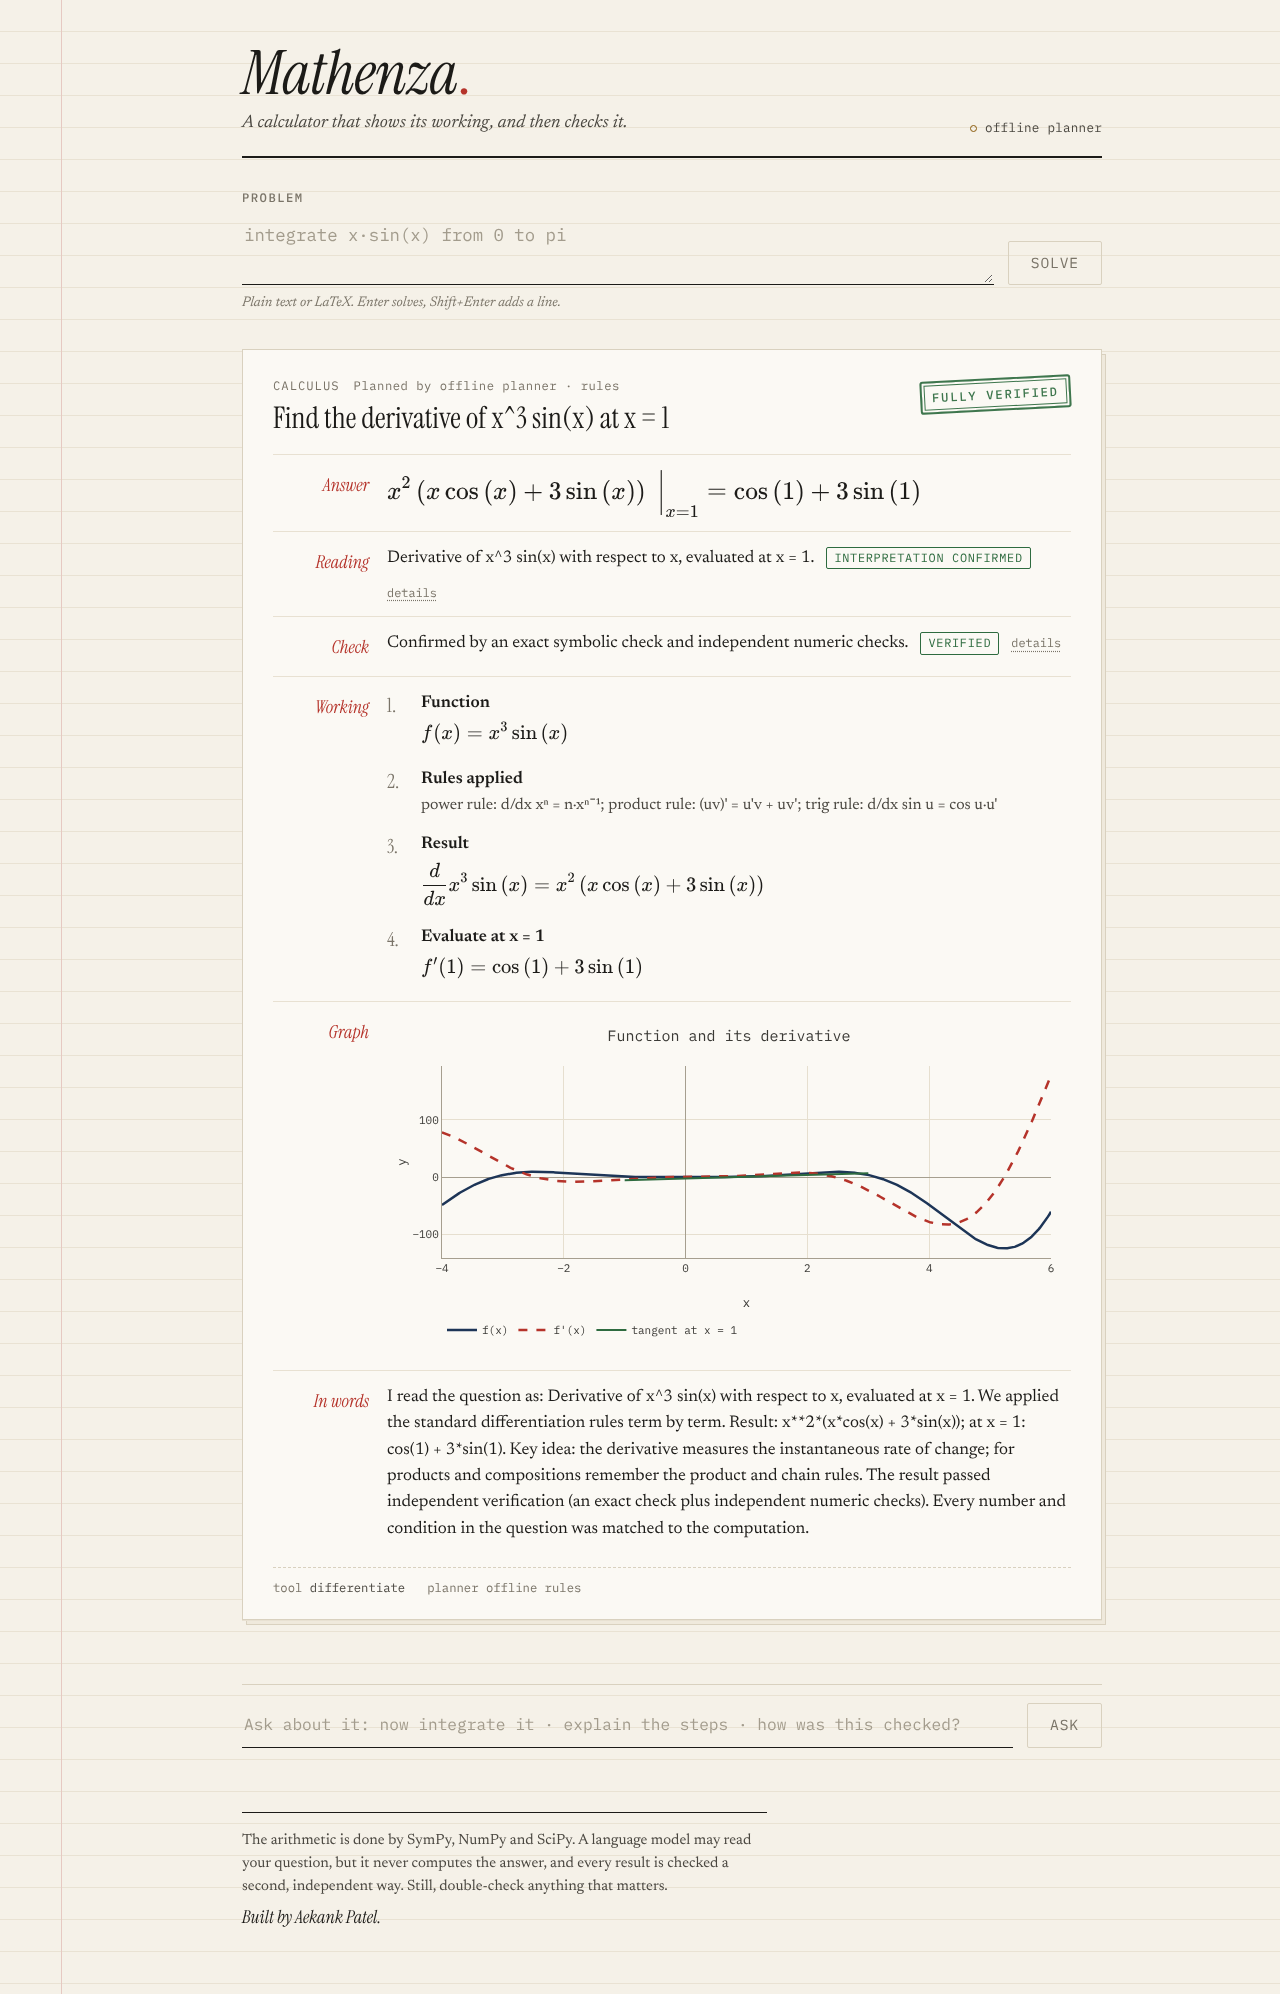
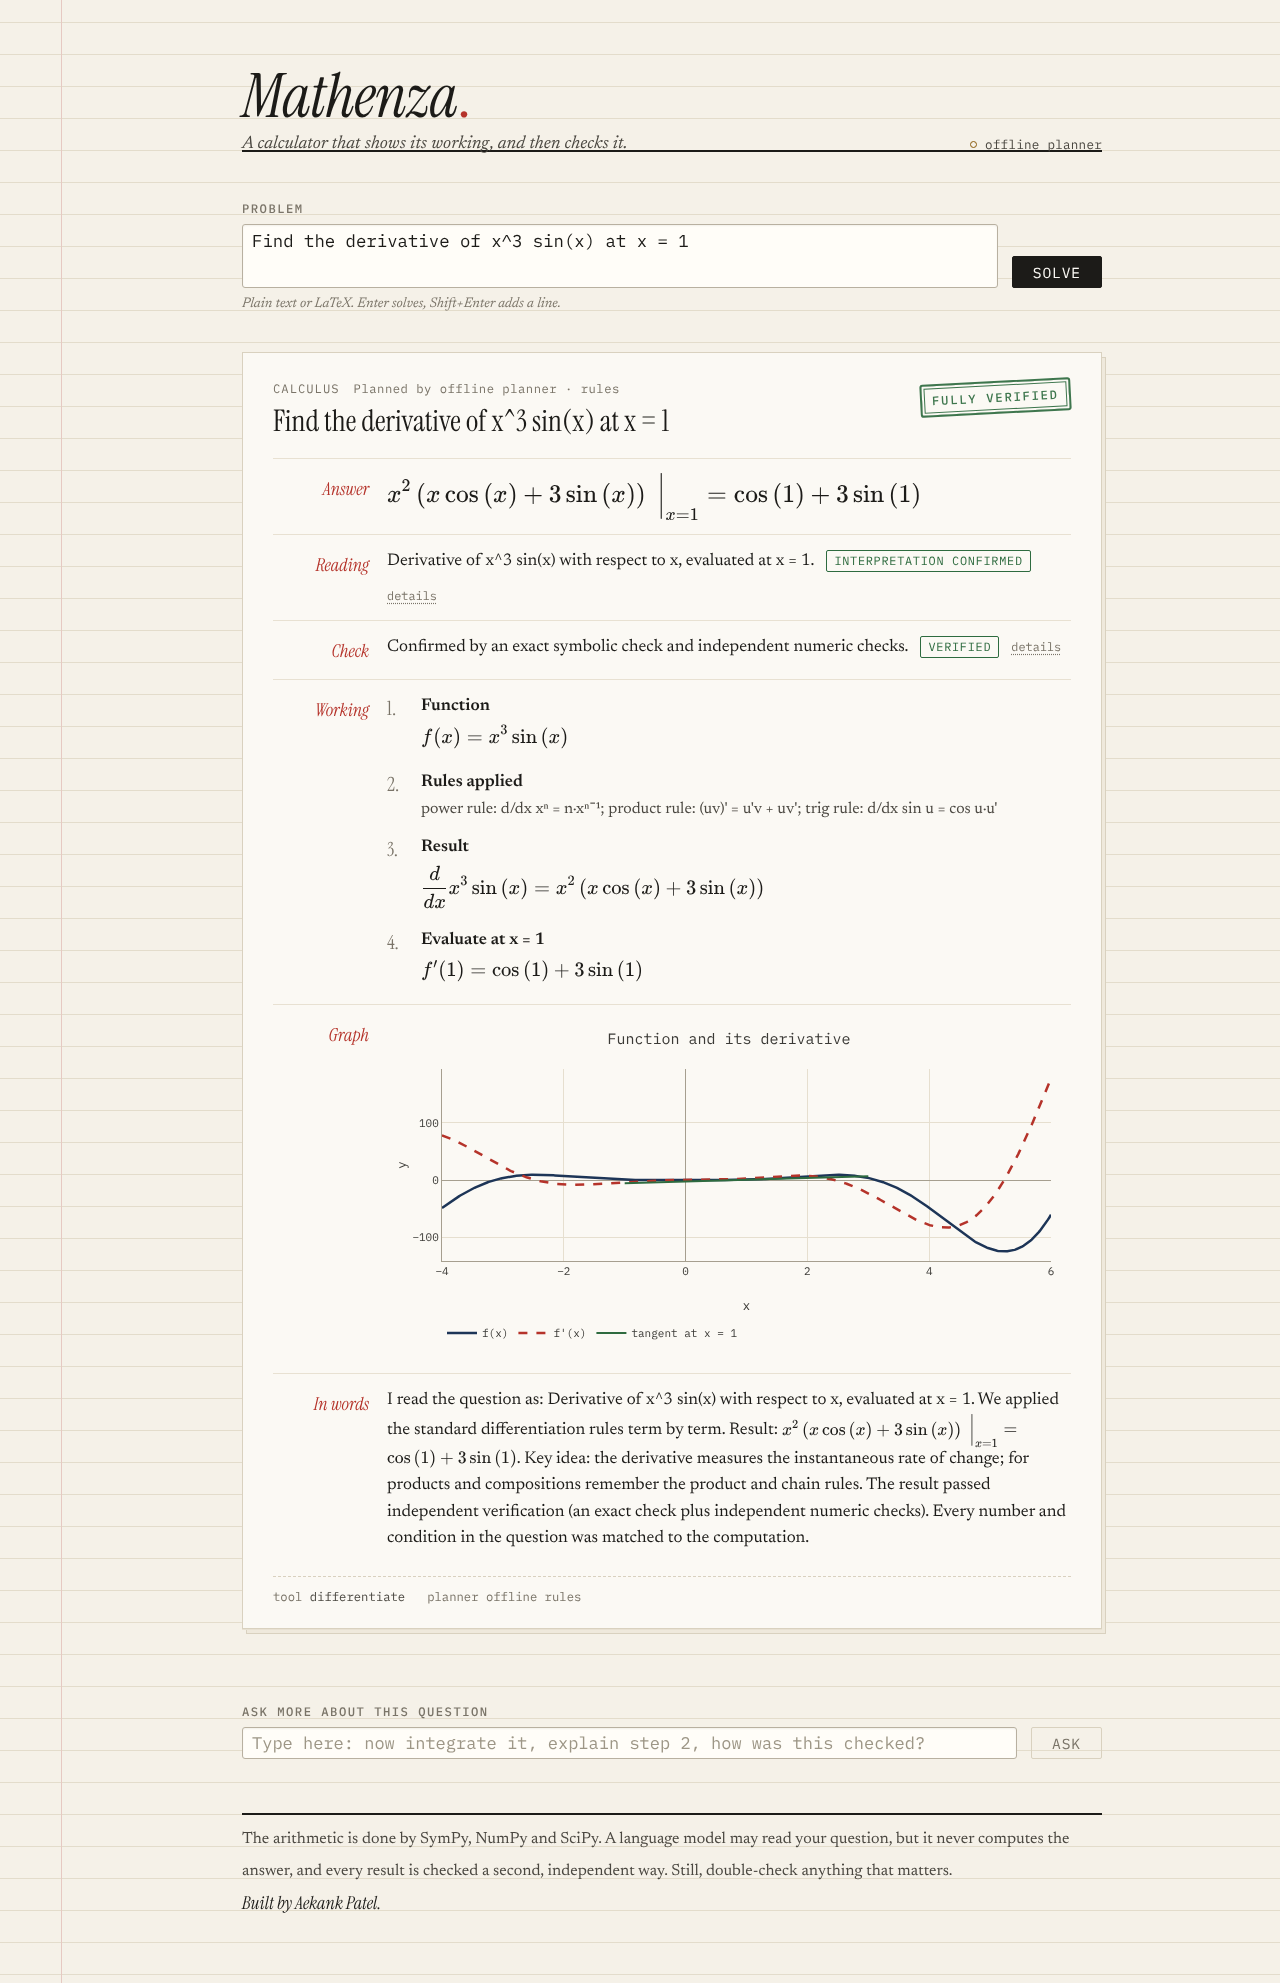
Align the home page to the notebook lines and polish the interface

diff --git a/frontend/src/index.css b/frontend/src/index.css
@@ -232,3 +232,97 @@ button { font: inherit; color: inherit; }
   .ask-hint span:first-child { display: none; }
 }
 @media (prefers-reduced-motion: reduce) { .sheet, .working .dots { animation: none; } }
+
+/* ==== writing on the lines ====================================================================
+   The page is ruled every 32px. Everything on the home page is sized in whole lines, so the text
+   sits on the rules like handwriting in a notebook. Rules are drawn with inset shadows, which take
+   no space and so never push the next line off the grid. */
+:root { --line: 32px; }
+.app { padding-top: calc(var(--line) * 2); padding-bottom: calc(var(--line) * 2); }
+
+.masthead { padding-bottom: 0; border-bottom: 0; margin-bottom: var(--line); align-items: flex-end; row-gap: 0;
+  box-shadow: inset 0 -2px 0 var(--ink); }
+.wordmark { line-height: calc(var(--line) * 2); height: calc(var(--line) * 2); }
+.tagline { margin: 0; line-height: var(--line); }
+.status { height: var(--line); line-height: var(--line); }
+
+.eyebrow { margin: 0; line-height: var(--line); height: var(--line); }
+
+.ask-row { align-items: flex-end; }
+.ask textarea, .ask input { border: 0; padding: 0 6px; line-height: var(--line); resize: none;
+  background: rgba(255, 253, 247, 0.55); box-shadow: inset 0 -2px 0 var(--ink); }
+.ask textarea { height: calc(var(--line) * 2); min-height: calc(var(--line) * 2); }
+.ask input { height: var(--line); }
+.ask textarea:focus, .ask input:focus { box-shadow: inset 0 -2px 0 var(--pencil); background: rgba(255, 253, 247, 0.85); }
+.ask button { height: var(--line); padding: 0 20px; line-height: calc(var(--line) - 3px); }
+.ask-hint { margin: 0; height: var(--line); line-height: var(--line); }
+
+.examples { margin: var(--line) 0 0; }
+.examples dl { gap: 0; }
+.example-group { padding: 0; gap: 0 24px; border-bottom: 0; }
+.example-group dt { line-height: var(--line); }
+.example-group dd { flex-direction: column; flex-wrap: nowrap; gap: 0; }
+.example { display: flex; align-items: center; height: var(--line); padding: 0; font-family: var(--serif);
+  font-size: 1.02rem; line-height: var(--line); color: var(--navy); }
+.example .katex { font-size: 1.02em; }
+.example + .example::before { content: none; }
+
+.legend { margin-top: var(--line); font-size: 0.95rem; }
+.legend ul { margin: 0; gap: 0; }
+.legend li { grid-template-columns: 280px 1fr; min-height: var(--line); line-height: var(--line); gap: 0 14px; }
+.legend .stamp { font-size: 0.66rem; padding: 1px 8px; letter-spacing: 0.12em; transform: rotate(-2deg);
+  justify-self: start; line-height: 1.5; }
+
+.turns { margin-top: var(--line); }
+.followup { margin-top: var(--line); padding-top: 0; border-top: 0; }
+.followup input { font-size: 1rem; }
+
+.colophon { max-width: none; margin-top: calc(var(--line) * 2); padding-top: 0; border-top: 0;
+  box-shadow: inset 0 2px 0 var(--ink); line-height: var(--line); font-size: 0.95rem; }
+.colophon p { margin: 0; }
+.colophon-sign { line-height: var(--line); }
+
+@media (max-width: 760px) {
+  .legend li { grid-template-columns: 1fr; }
+  .example { height: auto; min-height: var(--line); }
+  .ask button { height: var(--line); }
+}
+@media (max-width: 760px) {
+  .ask-row { gap: 0; }
+  .followup .ask-row { gap: 0 10px; }
+}
+@media (max-width: 760px) {
+  .legend li { grid-template-rows: var(--line) auto; align-items: center; gap: 0; }
+  .legend li > .muted { line-height: var(--line); align-self: start; }
+}
+
+/* rules sit just under the text baseline (22px into each 32px line), like handwriting on a ruled page */
+:root {
+  background-image:
+    linear-gradient(to right, transparent 0, transparent 61px, #e6c9c2 61px, #e6c9c2 62px, transparent 62px),
+    repeating-linear-gradient(to bottom, transparent 0, transparent 22px, #e3dccb 22px, #e3dccb 23px, transparent 23px, transparent 32px);
+}
+@media (max-width: 760px) {
+  :root { background-image: repeating-linear-gradient(to bottom, transparent 0, transparent 22px, #e3dccb 22px, #e3dccb 23px, transparent 23px, transparent 32px); }
+}
+/* drawn lines on the rules themselves (9px above the bottom of a line box) */
+.masthead { box-shadow: none; background: linear-gradient(var(--ink), var(--ink)) no-repeat left bottom 8px / 100% 2px; }
+.ask textarea, .ask input { box-shadow: none;
+  background: linear-gradient(var(--ink), var(--ink)) no-repeat left bottom 8px / 100% 2px, rgba(255, 253, 247, 0.5); }
+.ask textarea:focus, .ask input:focus { box-shadow: none;
+  background: linear-gradient(var(--pencil), var(--pencil)) no-repeat left bottom 8px / 100% 2px, rgba(255, 253, 247, 0.85); }
+.colophon { box-shadow: none; position: relative; }
+.colophon::before { content: ''; position: absolute; left: 0; right: 0; top: -10px; height: 2px; background: var(--ink); }
+.example { display: block; white-space: nowrap; overflow: visible; }
+.legend li { align-items: start; }
+.legend li > .stamp { margin-top: 5px; }
+/* inputs: a boxed field (clearly a place to type), still exactly one or two lines tall */
+.ask textarea, .ask input { background: #fffdf8; border: 1px solid #b8b0a0; border-radius: 3px; padding: 0 9px;
+  box-shadow: inset 0 1px 2px rgba(28, 27, 24, 0.06); }
+.ask textarea:hover, .ask input:hover { border-color: var(--ink-3); }
+.ask textarea:focus, .ask input:focus { background: #fffefb; border-color: var(--pencil);
+  box-shadow: 0 0 0 3px rgba(181, 51, 42, 0.12); }
+.ask textarea::placeholder, .ask input::placeholder { color: #9d9686; }
+@media (max-width: 760px) {
+  .ask-row > textarea { flex: none; width: 100%; }
+}

diff --git a/frontend/src/App.tsx b/frontend/src/App.tsx
@@ -1,6 +1,8 @@
 import { useEffect, useRef, useState, type FormEvent, type KeyboardEvent } from 'react'
 import { api, ApiError, MAX_PROBLEM_CHARS } from './api'
 import { StatusLegend } from './components/IntentPanel'
+import { RichText } from './components/Tex'
+import { EXAMPLE_LABELS } from './examples'
 import { HealthPill } from './components/PlannerInfo'
 import { SolutionCard } from './components/SolutionCard'
 import type { Health, SolveResponse } from './types'
@@ -97,7 +99,8 @@ export default function App() {
     if (!p || loading) return
     setTurns([])
     setSessionId(null)
-    if (await run(() => api.solve(p), false)) setProblem('')
+    setProblem(p) // the box keeps showing the question that was asked
+    await run(() => api.solve(p), false)
   }
 
   async function submitFollowUp(e: FormEvent) {
@@ -167,8 +170,14 @@ export default function App() {
                   <dt>{cat}</dt>
                   <dd>
                     {items.map((ex) => (
-                      <button key={ex} type="button" className="example" onClick={() => void submitProblem(undefined, ex)}>
-                        {ex}
+                      <button
+                        key={ex}
+                        type="button"
+                        className="example"
+                        aria-label={ex}
+                        onClick={() => void submitProblem(undefined, ex)}
+                      >
+                        {EXAMPLE_LABELS[ex] ? <RichText text={EXAMPLE_LABELS[ex]} /> : ex}
                       </button>
                     ))}
                   </dd>
@@ -206,12 +215,15 @@ export default function App() {
             <label htmlFor="followup" className="sr-only">
               Follow-up question
             </label>
+            <span className="eyebrow" aria-hidden>
+              Ask more about this question
+            </span>
             <div className="ask-row">
               <input
                 id="followup"
                 value={followUp}
                 onChange={(e) => setFollowUp(e.target.value)}
-                placeholder="Ask about it: now integrate it · explain the steps · how was this checked?"
+                placeholder="Type here: now integrate it, explain step 2, how was this checked?"
                 maxLength={MAX_PROBLEM_CHARS}
               />
               <button type="submit" disabled={loading || !followUp.trim()}>

diff --git a/frontend/src/components/Plot.tsx b/frontend/src/components/Plot.tsx
@@ -20,6 +20,20 @@ const INKS: Record<string, string> = {
   'rgba(245,158,11': 'rgba(181,51,42',
   'rgba(16,185,129': 'rgba(46,107,63',
 }
+/** SymPy text in legends ("x**2 - 5*x") -> readable maths ("x² − 5x"). */
+function prettyMath(text: string): string {
+  const sup: Record<string, string> = {
+    '0': '⁰', '1': '¹', '2': '²', '3': '³', '4': '⁴', '5': '⁵', '6': '⁶', '7': '⁷', '8': '⁸', '9': '⁹', '-': '⁻',
+  }
+  return text
+    .replace(/\*\*\(?(-?\d+)\)?/g, (_, n: string) => [...n].map((c) => sup[c] ?? c).join(''))
+    .replace(/(\d)\*(?=[a-zA-Z(])/g, '$1')
+    .replace(/\*/g, '·')
+    .replace(/ - /g, ' − ')
+    .replace(/\bsqrt\(/g, '√(')
+    .replace(/\bpi\b/g, 'π')
+}
+
 function recolour<T>(value: T): T {
   if (typeof value === 'string') {
     const hit = Object.keys(INKS).find((k) => value.toLowerCase().startsWith(k))
@@ -27,7 +41,9 @@ function recolour<T>(value: T): T {
   }
   if (Array.isArray(value)) return value.map(recolour) as T
   if (value && typeof value === 'object')
-    return Object.fromEntries(Object.entries(value).map(([k, v]) => [k, recolour(v)])) as T
+    return Object.fromEntries(
+      Object.entries(value).map(([k, v]) => [k, k === 'name' && typeof v === 'string' ? prettyMath(v) : recolour(v)]),
+    ) as T
   return value
 }
 
@@ -73,7 +89,7 @@ export function Plot({ figure }: { figure: PlotlyFigure }) {
         return Plotly.react(el, recolour(figure.data) as Plotly.Data[], merged as Partial<Plotly.Layout>, {
           responsive: true,
           displaylogo: false,
-          displayModeBar: narrow ? false : 'hover',
+          displayModeBar: false, // no toolbar: drag to zoom, double-click to reset
           modeBarButtonsToRemove: ['lasso2d', 'select2d'],
         })
       })

diff --git a/frontend/src/examples.ts b/frontend/src/examples.ts
@@ -1,0 +1,22 @@
+// Typeset labels for the example questions ($…$ is rendered with KaTeX); the plain text is what gets solved.
+export const EXAMPLE_LABELS: Record<string, string> = {
+  'Solve x^2 - 5x + 6 = 0': 'Solve $x^2 - 5x + 6 = 0$',
+  'x + 2y = 7, 3x - y = 7': 'Solve $x + 2y = 7,\\ 3x - y = 7$',
+  'factor x^3 - 8': 'Factor $x^3 - 8$',
+  'Find the derivative of x^3 sin(x)': 'Derivative of $x^3 \\sin x$',
+  'limit of sin(x)/x as x -> 0': '$\\lim_{x \\to 0} \\frac{\\sin x}{x}$',
+  'second derivative of exp(x^2)': 'Second derivative of $e^{x^2}$',
+  'Integrate x^2 from 0 to 3': '$\\int_0^3 x^2\\,dx$',
+  'integral of x e^x dx': '$\\int x e^x\\,dx$',
+  'integrate exp(-x^2) from -oo to oo': '$\\int_{-\\infty}^{\\infty} e^{-x^2}\\,dx$',
+  'eigenvalues of [[2,1],[1,2]]': 'Eigenvalues of $\\left(\\begin{smallmatrix}2&1\\\\1&2\\end{smallmatrix}\\right)$',
+  'inverse of [[4,7],[2,6]]': 'Inverse of $\\left(\\begin{smallmatrix}4&7\\\\2&6\\end{smallmatrix}\\right)$',
+  'solve [[2,1],[1,3]] x = [3,5]':
+    'Solve $\\left(\\begin{smallmatrix}2&1\\\\1&3\\end{smallmatrix}\\right)\\mathbf{x} = \\left(\\begin{smallmatrix}3\\\\5\\end{smallmatrix}\\right)$',
+  'mean and standard deviation of 2, 4, 4, 4, 5, 5, 7, 9': 'Mean and standard deviation of $2, 4, 4, 4, 5, 5, 7, 9$',
+  'Binomial n=10 p=0.5, P(X <= 3)': '$X \\sim \\mathrm{Bin}(10,\\ 0.5)$: find $P(X \\le 3)$',
+  'normal mean 100 std 15, P(X > 130)': '$X \\sim N(100,\\ 15^2)$: find $P(X > 130)$',
+  'sum of the first 100 positive integers': '$1 + 2 + \\dots + 100$',
+  '10th term of the arithmetic sequence 3, 7, 11, ...': '10th term of $3, 7, 11, \\dots$',
+  'critical points of f(x) = x^3 - 3x': 'Critical points of $f(x) = x^3 - 3x$',
+}

diff --git a/frontend/index.html b/frontend/index.html
@@ -2,9 +2,11 @@
 <html lang="en">
   <head>
     <meta charset="UTF-8" />
-    <link rel="icon" type="image/svg+xml" href="/favicon.svg" />
+    <link rel="icon" href="/favicon.ico" sizes="any" />
+    <link rel="icon" type="image/png" sizes="32x32" href="/favicon-32.png" />
+    <link rel="apple-touch-icon" href="/apple-touch-icon.png" />
     <meta name="viewport" content="width=device-width, initial-scale=1.0" />
-    <title>Mathenza — Solve · Verify · Explain</title>
+    <title>Mathenza</title>
     <meta name="description" content="A maths calculator that shows its working and checks every answer a second way." />
     <meta name="theme-color" content="#f5f1e8" />
   </head>

diff --git a/frontend/src/components/IntentPanel.tsx b/frontend/src/components/IntentPanel.tsx
@@ -84,8 +84,8 @@ const LEGEND: OverallStatus[] = ['verified', 'verified_with_assumptions', 'appro
 /** Explains the trust levels shown on every answer. */
 export function StatusLegend() {
   return (
-    <details className="legend" data-testid="status-legend">
-      <summary>What do the badges mean?</summary>
+    <section className="legend" data-testid="status-legend" aria-label="What the marks mean">
+      <h2 className="eyebrow">What the marks mean</h2>
       <ul>
         {LEGEND.map((s) => (
           <li key={s}>
@@ -94,6 +94,6 @@ export function StatusLegend() {
           </li>
         ))}
       </ul>
-    </details>
+    </section>
   )
 }

diff --git a/backend/app/main.py b/backend/app/main.py
@@ -147,4 +147,9 @@ def examples() -> dict[str, list[str]]:
             "Binomial n=10 p=0.5, P(X <= 3)",
             "normal mean 100 std 15, P(X > 130)",
         ],
+        "Sums & extrema": [
+            "sum of the first 100 positive integers",
+            "10th term of the arithmetic sequence 3, 7, 11, ...",
+            "critical points of f(x) = x^3 - 3x",
+        ],
     }
